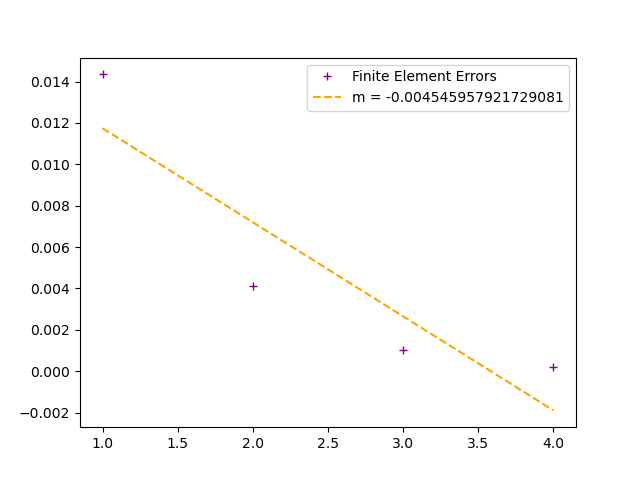
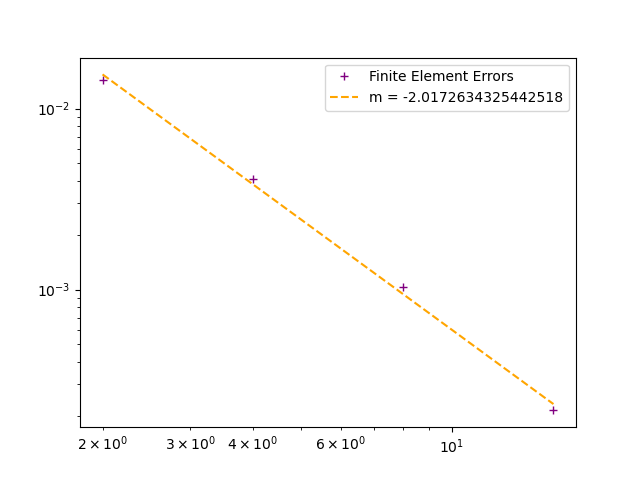
fixed error in ex 1

diff --git a/Exercise Sheet 11/ex1.py b/Exercise Sheet 11/ex1.py
@@ -36,8 +36,10 @@ if __name__ == "__main__":
     for level, error in enumerate(errors):
         print(f"Error at level {level+1}: \t{error}.")
 
-    plt.plot(range(1,5), errors, label="Finite Element Errors", marker="+", ls="", color="purple")
-    m,b = np.polyfit(range(1,5), errors, 1)
-    plt.plot(range(1,5), m*range(1,5)+b, label=f"m = {m}", linestyle="dashed", color="orange")
+    x = [2**(k) for k in range(1,5)]
+
+    plt.loglog(x, errors, label="Finite Element Errors", marker="+", ls="", color="purple")
+    m,b = np.polyfit(np.log10(x), np.log10(errors), 1)
+    plt.loglog(x, x**m * 10**b, label=f"m = {m}", linestyle="dashed", color="orange")
     plt.legend()
     plt.show()
